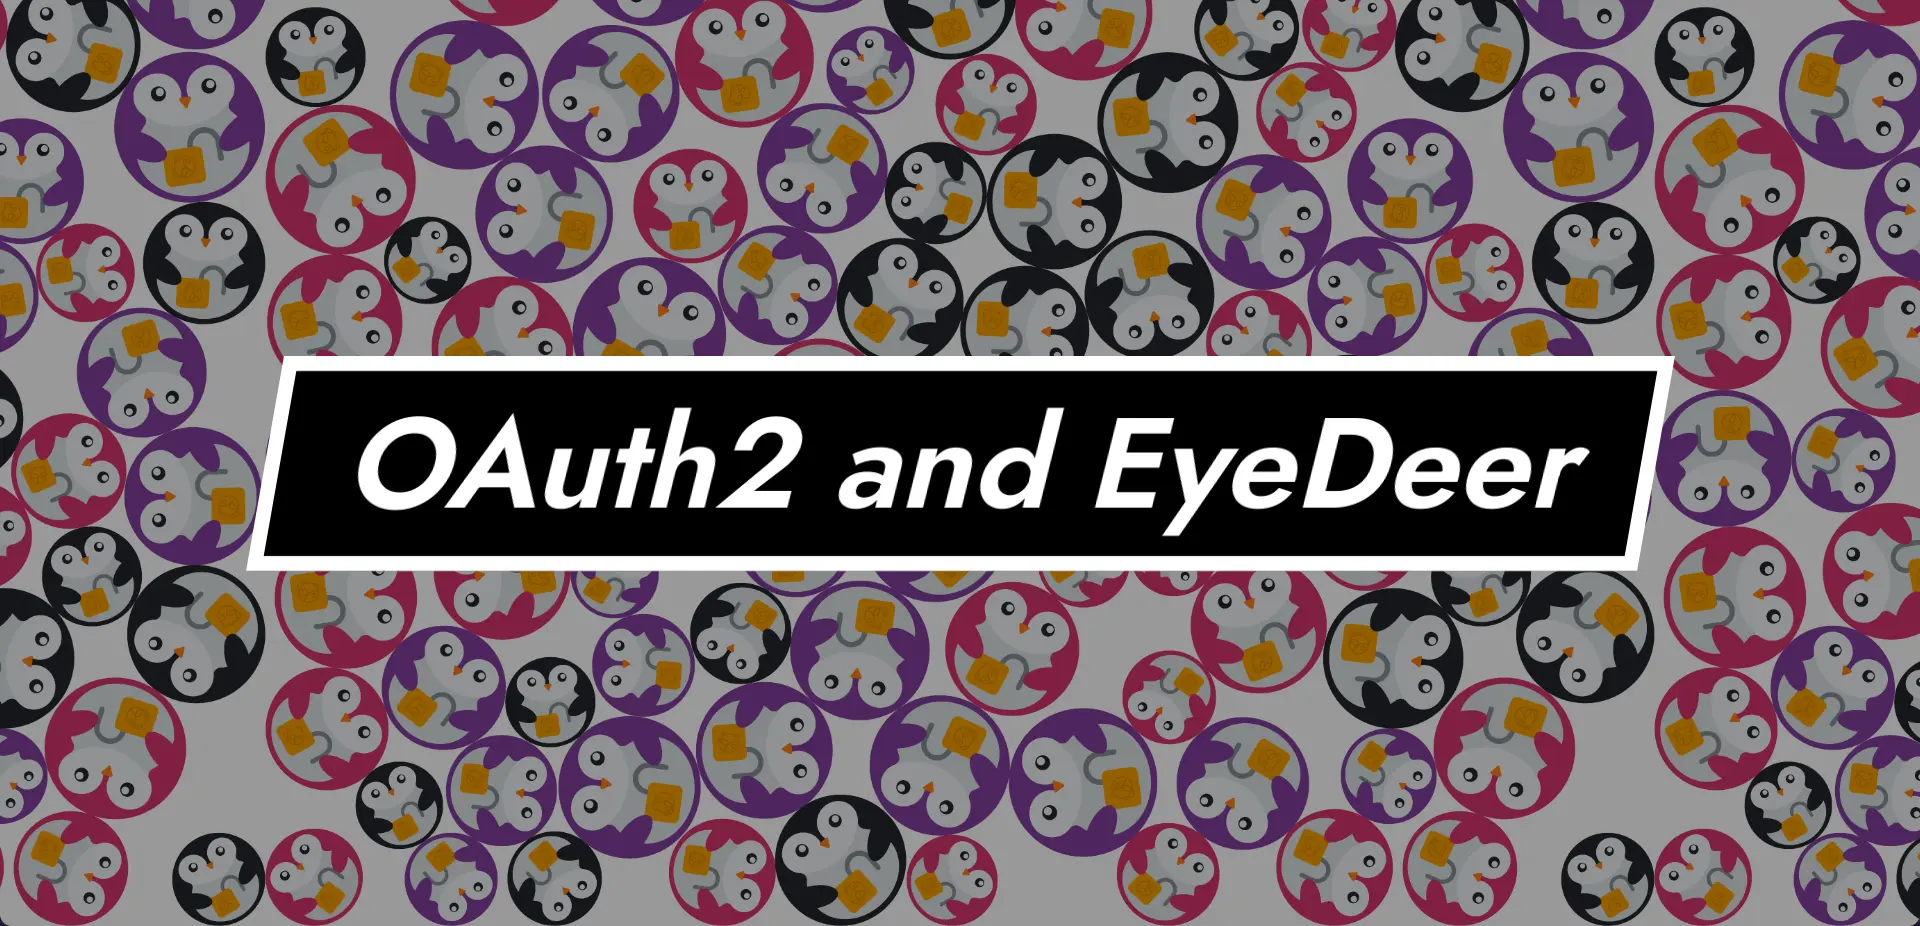
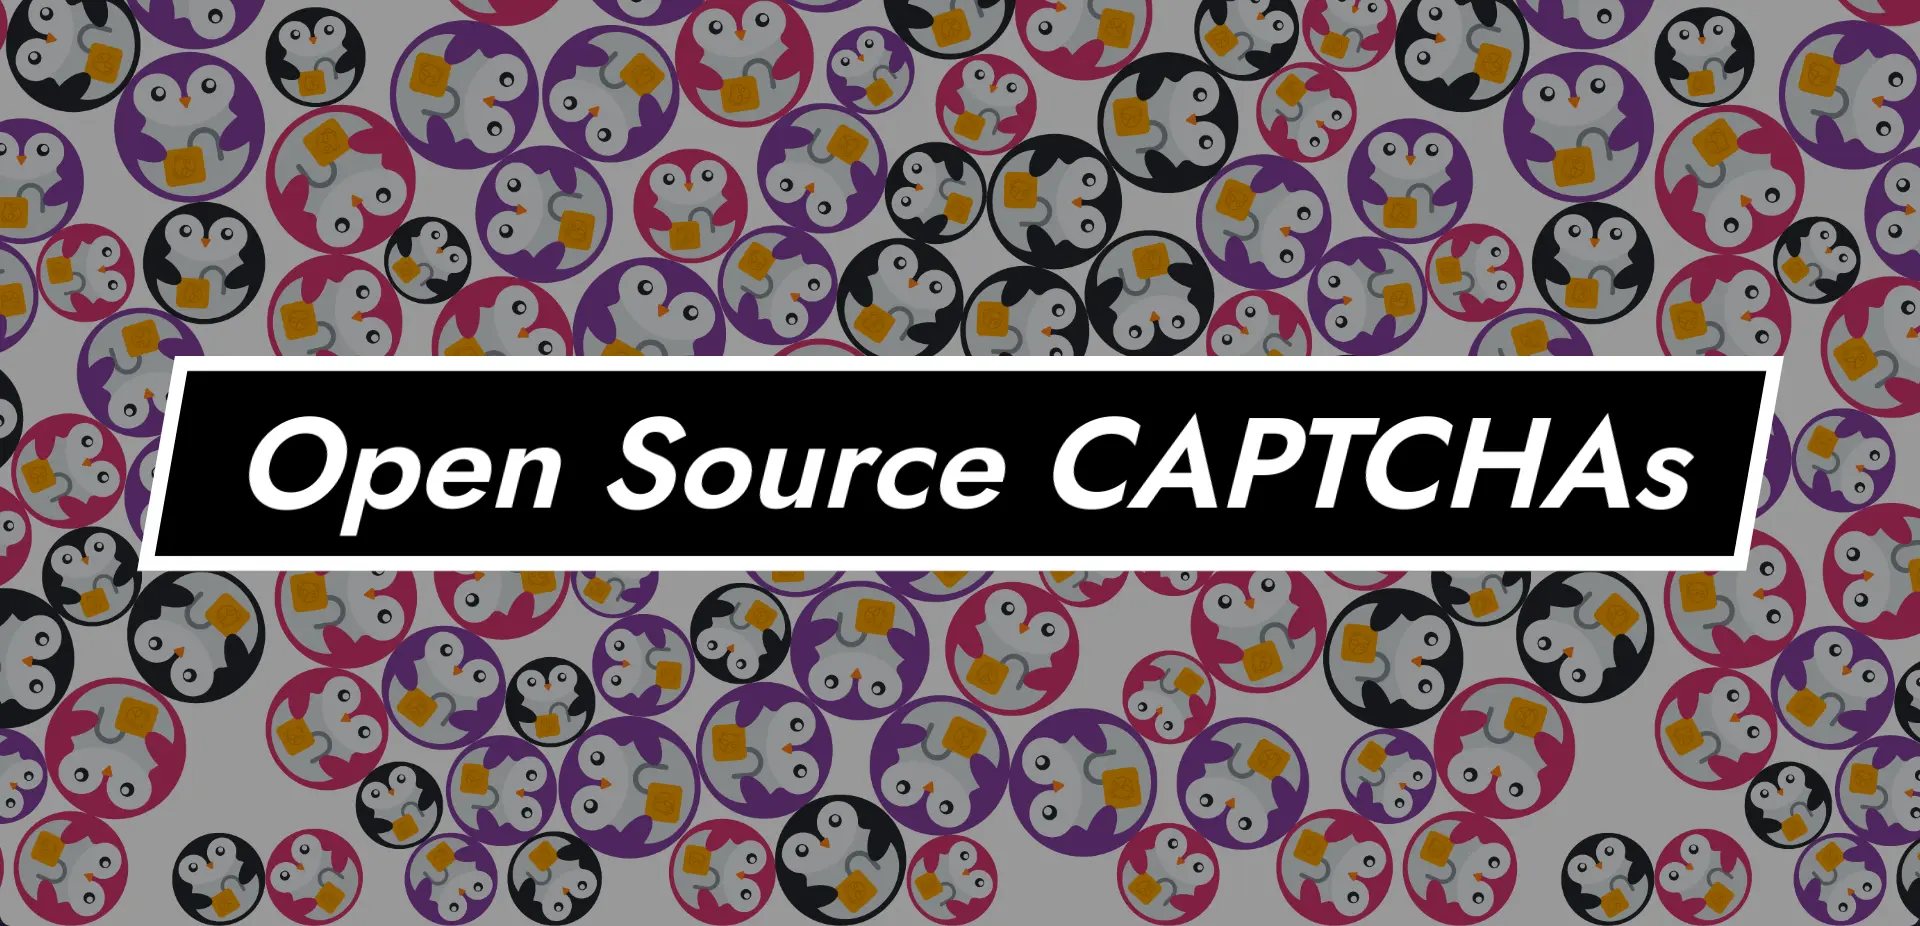
update future event

Changed region(s): [[0.0625, 0.3629, 0.9375, 0.635]]

diff --git a/events/index.html b/events/index.html
@@ -41,9 +41,9 @@
                     <img class="event-image" src="/events/1/thumbnail.webp" alt="OAuth2 and EyeDeer">
                     <div class="event-info">
                         <div class="event-text">
-                            <div class="event-title">🔒OAuth2 and EyeDeer</div>
+                            <div class="event-title">Open Source CAPTCHAs</div>
                             <div class="event-desc">
-                                Learn about our project "EyeDeer" and how websites securely communicate with each other.
+                                Learn about CAPTCHAs and open source solutions to preventing bots!
                             </div>
                         </div>
                         <div class="event-stats">
